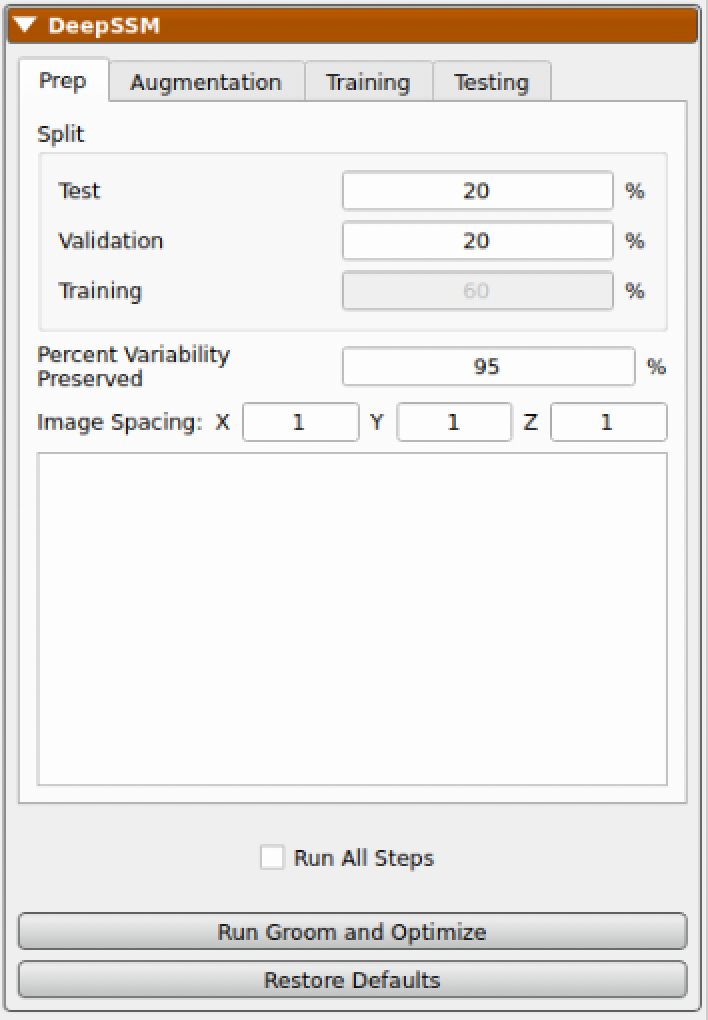
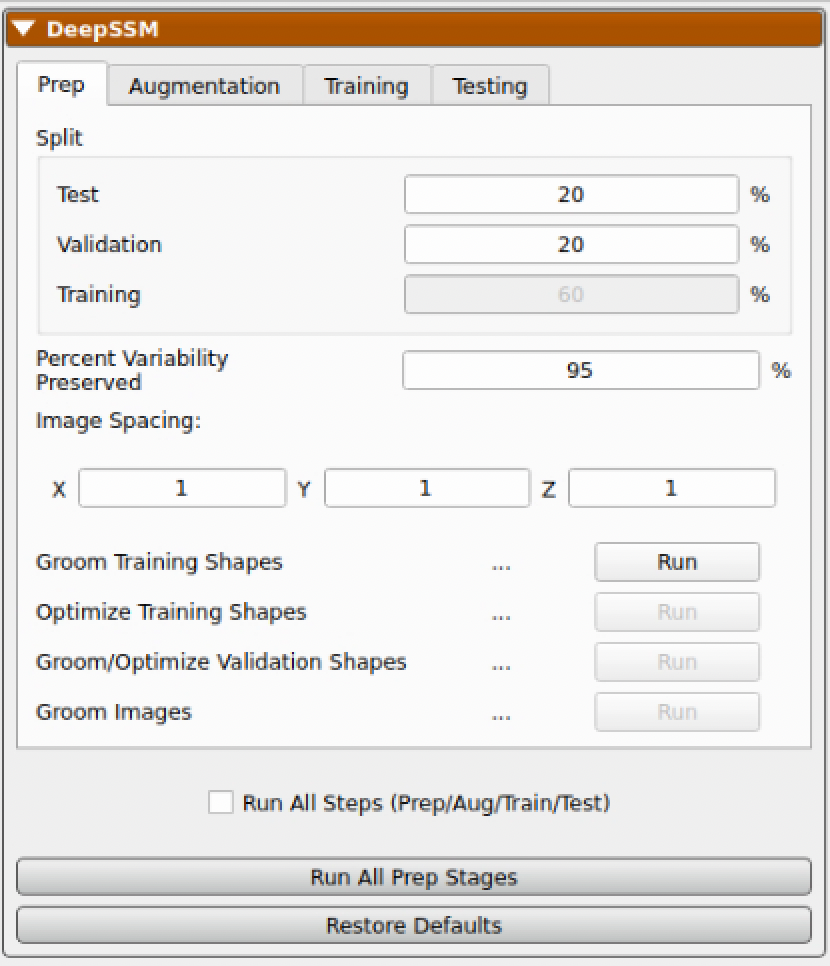
Updating docs.

diff --git a/docs/studio/deepssm-in-studio.md b/docs/studio/deepssm-in-studio.md
@@ -38,10 +38,9 @@ The next step is to run the prep phase which will perform the following tasks:
 | Task | Description |
 | ---------- | ----------- |
 | Groom Training Shapes | The shapes marked "training" (see split column) will be groomed according to the parameters in the groom tab|
-| Optimize Training Particles | The shapes marked "training" will have correspondence particles generated and optimized according to the parameters in the optimize tab |
-| Groom Training Images | The training images will be aligned and prepped according to the grooming parameters |
-| Groom Validation Images | The validation images will be aligned and prepped using image to image registration with the training images|
-| Optimize Validation Particles | The validation shapes will have correspondence particles generated and optimized according to the parameters  n the optimize tab using the training shapes as fixed domains|
+| Optimize Training Shapes | The shapes marked "training" will have correspondence particles generated and optimized according to the parameters in the optimize tab |
+| Groom/Optimize Validation Shapes | The validation shapes will have correspondence particles generated and optimized according to the parameters  n the optimize tab using the training shapes as fixed domains|
+| Groom Images | The training images will be aligned and prepped according to the grooming parameters. The validation images will be aligned and prepped using image to image registration with the training images. |
 
 After running the prep stage, you should see the following with all five stages done:
 

diff --git a/docs/studio/studio-analyze.md b/docs/studio/studio-analyze.md
@@ -47,6 +47,10 @@ The Network Analysis tool provides a method to statistically analyze data captur
 | Display           | Choose to display Network Analysis output or SPM1D                                                                                                               |
 
 
+After running the Network Analysis, you can enable the display of values with the "Display" checkbox:
+
+![ShapeWorks Studio Network Analysis Display](../img/studio/studio_network_analysis_display.png)
+
 
 ### Samples
 
